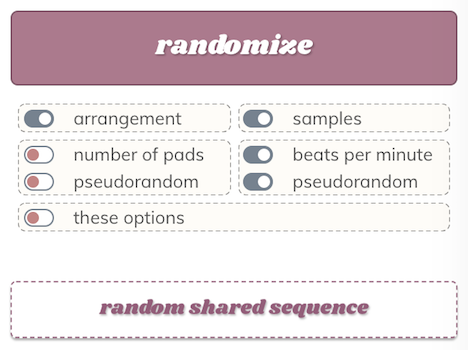
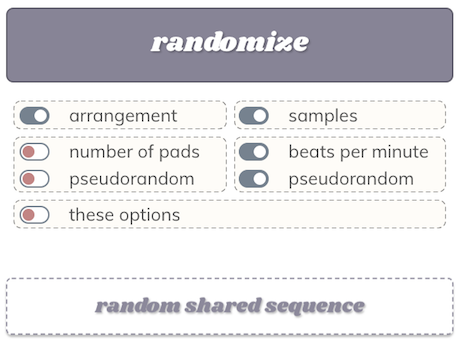
final styling updates

diff --git a/css/padseek.css b/css/padseek.css
@@ -46,7 +46,7 @@ body {
 h1 {
 	top: 0;
 	z-index: 5;
-	padding: 55px 100% 15px 50px;
+	padding: 40px 1500px 15px 50px;
 	transition: all 5s ease-in-out;
 	font-family: 'Shrikhand', cursive;
 	margin: 0px 0 15px 0;
@@ -121,8 +121,7 @@ input[type="button"]:active {
 .main_content {
 	width: auto;
 	height: auto;
-	padding: 35px 0;
-	padding-right: 40px;
+	padding: 25px 40px 25px 0px;
 	margin: 30px 40px 40px 40px;
 }
 

diff --git a/css/pad.css b/css/pad.css
@@ -58,7 +58,7 @@
 }
 
 .pad_manipulator:hover {
-	opacity: 0.5;
+	opacity: 0.5 !important;
 }
 
 .pad_piece {
